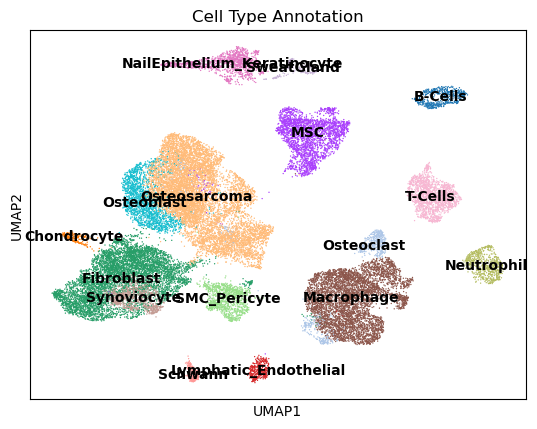
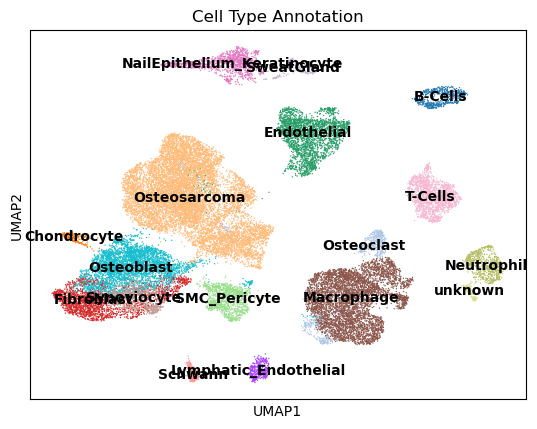
Update annotations and marker genes

diff --git a/src/plotMarkers.py b/src/plotMarkers.py
@@ -8,13 +8,13 @@ marker_genes = {
     "Endothelial": ["Esam", "Flt1", "Vwf", "Plvap","Cdh5", "Pecam1", "Kdr", "Emcn", "Erg", "Cd34"],
     "Macrophage": ["Adgre1", "Csf1r", "Cd68", "Mrc1", "Cd163"],
     "Keratinocyte": ["Krt14", "Krt5", "Epcam", "Cdh1", "Krt17", "Dsg3"],
-    "Osteoblast": ["Sp7", "Bglap", "Alpl", "Ibsp", "Col1a1"],
+    "Osteoblast": ["Runx2", "Postn", "Mmp13", "Spp1", "Dmp1","Sp7", "Bglap", "Alpl", "Ibsp", "Col1a1"],
     "Pericyte": ["Cspg4", "Pdgfrb", "Kcnj8", "Abcc9", "Rgs5"],
     "SMC": ["Myh11", "Tagln", "Acta2", "Cnn1", "Des"],
     "Chondrocyte": ["Col2a1", "Acan", "Sox9", "Matn1", "Col9a1", "Comp"],
     "Schwann": ["Mbp", "Plp1", "Sox10", "S100b", "Pmp22"],
     "T-cell": ["Cd3d", "Cd3e", "Cd4", "Cd8a", "Cd28"],
-    "Osteoclast": ["Runx2", "Postn", "Mmp13", "Spp1", "Dmp1","Ctsk", "Acp5", "Calcr", "Oscar", "Nfatc1", "Dcstamp", "Tnfrsf11a"],
+    "Osteoclast": ["Ctsk", "Acp5", "Calcr", "Oscar", "Nfatc1", "Dcstamp", "Tnfrsf11a"],
     "Synoviocyte": ["Prg4", "Ucma", "Gdf5", "Cilp2", "Frzb"],
     "Neutrophil": ["Ly6g", "S100a8", "S100a9", "Mpo", "Csf3r"],
     "Lymphatic_Endothelial": ["Prox1", "Lyve1", "Pdpn", "Flt4", "Pecam1"],

diff --git a/README.md b/README.md
@@ -155,13 +155,13 @@ marker_genes = {
     "Endothelial": ["Esam", "Flt1", "Vwf", "Plvap","Cdh5", "Pecam1", "Kdr", "Emcn", "Erg", "Cd34"],
     "Macrophage": ["Adgre1", "Csf1r", "Cd68", "Mrc1", "Cd163"],
     "Keratinocyte": ["Krt14", "Krt5", "Epcam", "Cdh1", "Krt17", "Dsg3"],
-    "Osteoblast": ["Sp7", "Bglap", "Alpl", "Ibsp", "Col1a1"],
+    "Osteoblast": ["Runx2", "Postn", "Mmp13", "Spp1", "Dmp1","Sp7", "Bglap", "Alpl", "Ibsp", "Col1a1"],
     "Pericyte": ["Cspg4", "Pdgfrb", "Kcnj8", "Abcc9", "Rgs5"],
     "SMC": ["Myh11", "Tagln", "Acta2", "Cnn1", "Des"],
     "Chondrocyte": ["Col2a1", "Acan", "Sox9", "Matn1", "Col9a1", "Comp"],
     "Schwann": ["Mbp", "Plp1", "Sox10", "S100b", "Pmp22"],
     "T-cell": ["Cd3d", "Cd3e", "Cd4", "Cd8a", "Cd28"],
-    "Osteoclast": ["Runx2", "Postn", "Mmp13", "Spp1", "Dmp1","Ctsk", "Acp5", "Calcr", "Oscar", "Nfatc1", "Dcstamp", "Tnfrsf11a"],
+    "Osteoclast": ["Ctsk", "Acp5", "Calcr", "Oscar", "Nfatc1", "Dcstamp", "Tnfrsf11a"],
     "Synoviocyte": ["Prg4", "Ucma", "Gdf5", "Cilp2", "Frzb"],
     "Neutrophil": ["Ly6g", "S100a8", "S100a9", "Mpo", "Csf3r"],
     "Lymphatic_Endothelial": ["Prox1", "Lyve1", "Pdpn", "Flt4", "Pecam1"],
@@ -178,7 +178,7 @@ marker_genes = {
 
 ### Dotplot for marker genes 
 
-![](figures/dotplot__axt_dotplot.png?v=5) 
+![](figures/dotplot__axt_dotplot.png?v=6) 
 
 
 ### Feature plots for marker genes 
@@ -223,9 +223,9 @@ marker_genes = {
 
 We used the above marker genes to annotate our celltypes as follows:
 
-![](figures/umap_axt_celltype.png?v=4)
+![](figures/umap_axt_celltype.png?v=5)
 
-![](figures/umap_axt_celltypeON.png?v=4) 
+![](figures/umap_axt_celltypeON.png?v=5) 
 
 🚨🚨⚠ WARNING: Cluster 43 removed due to low-quality cells (133 cells were removed) ⚠ 🚨🚨
 
